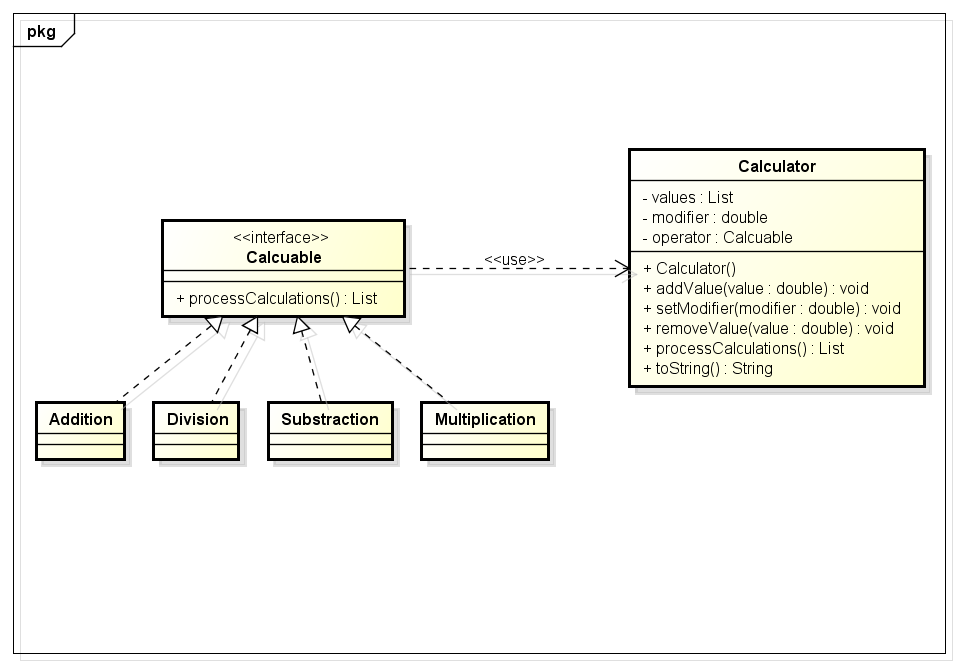
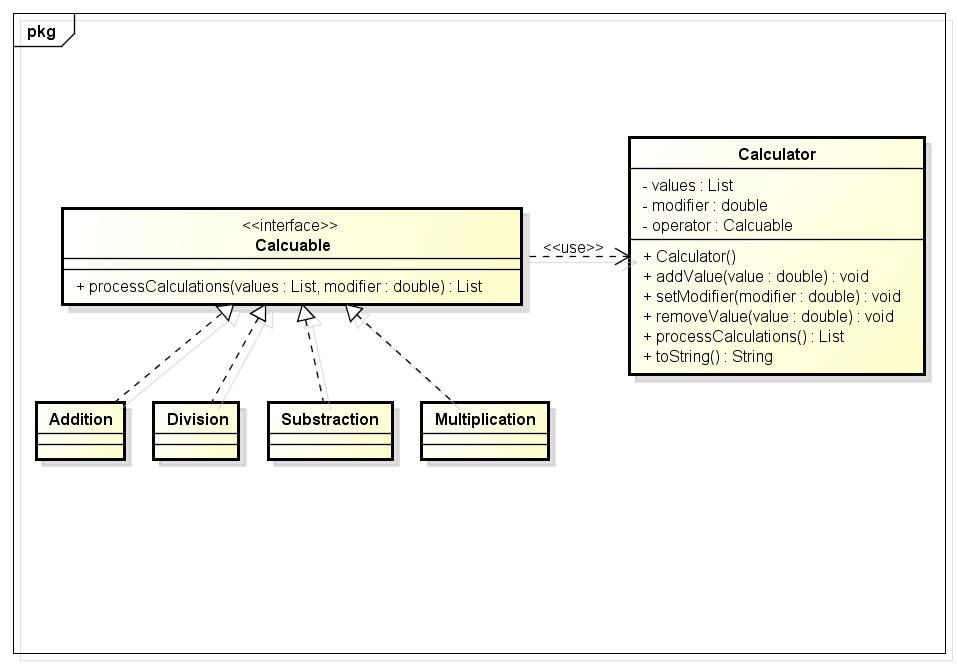
Designänderung: processCalculations() bekommt Parameter

diff --git a/Calculator/Calculator.java b/Calculator/Calculator.java
@@ -8,7 +8,7 @@ import java.util.List;
  */
 public class Calculator {
 
-	private List values;
+	private List<Double> values;
 
 	private double modifier;
 
@@ -30,7 +30,7 @@ public class Calculator {
 
 	}
 
-	public List processCalculations() {
+	public List<Double> processCalculations() {
 		return null;
 	}
 

diff --git a/Calculator/Multiplication.java b/Calculator/Multiplication.java
@@ -12,7 +12,7 @@ public class Multiplication implements Calcuable {
 	/**
 	 * @see Calcuable#processCalculations()
 	 */
-	public List processCalculations() {
+	public List<Double> processCalculations(List<Double> values, double modifier) {
 		return null;
 	}
 

diff --git a/Calculator/Substraction.java b/Calculator/Substraction.java
@@ -12,7 +12,7 @@ public class Substraction implements Calcuable {
 	/**
 	 * @see Calcuable#processCalculations()
 	 */
-	public List processCalculations() {
+	public List<Double> processCalculations(List<Double> values, double modifier) {
 		return null;
 	}
 

diff --git a/Calculator/Addition.java b/Calculator/Addition.java
@@ -12,7 +12,7 @@ public class Addition implements Calcuable {
 	/**
 	 * @see Calcuable#processCalculations()
 	 */
-	public List processCalculations() {
+	public List<Double> processCalculations(List<Double> values, double modifier) {
 		return null;
 	}
 

diff --git a/Calculator/Division.java b/Calculator/Division.java
@@ -12,7 +12,7 @@ public class Division implements Calcuable {
 	/**
 	 * @see Calcuable#processCalculations()
 	 */
-	public List processCalculations() {
+	public List<Double> processCalculations(List<Double> values, double modifier) {
 		return null;
 	}
 

diff --git a/Calculator/Calcuable.java b/Calculator/Calcuable.java
@@ -8,6 +8,6 @@ import java.util.List;
  */
 public interface Calcuable {
 
-	public List processCalculations();
+	public List<Double> processCalculations(List<Double> values, double modifier);
 
 }
